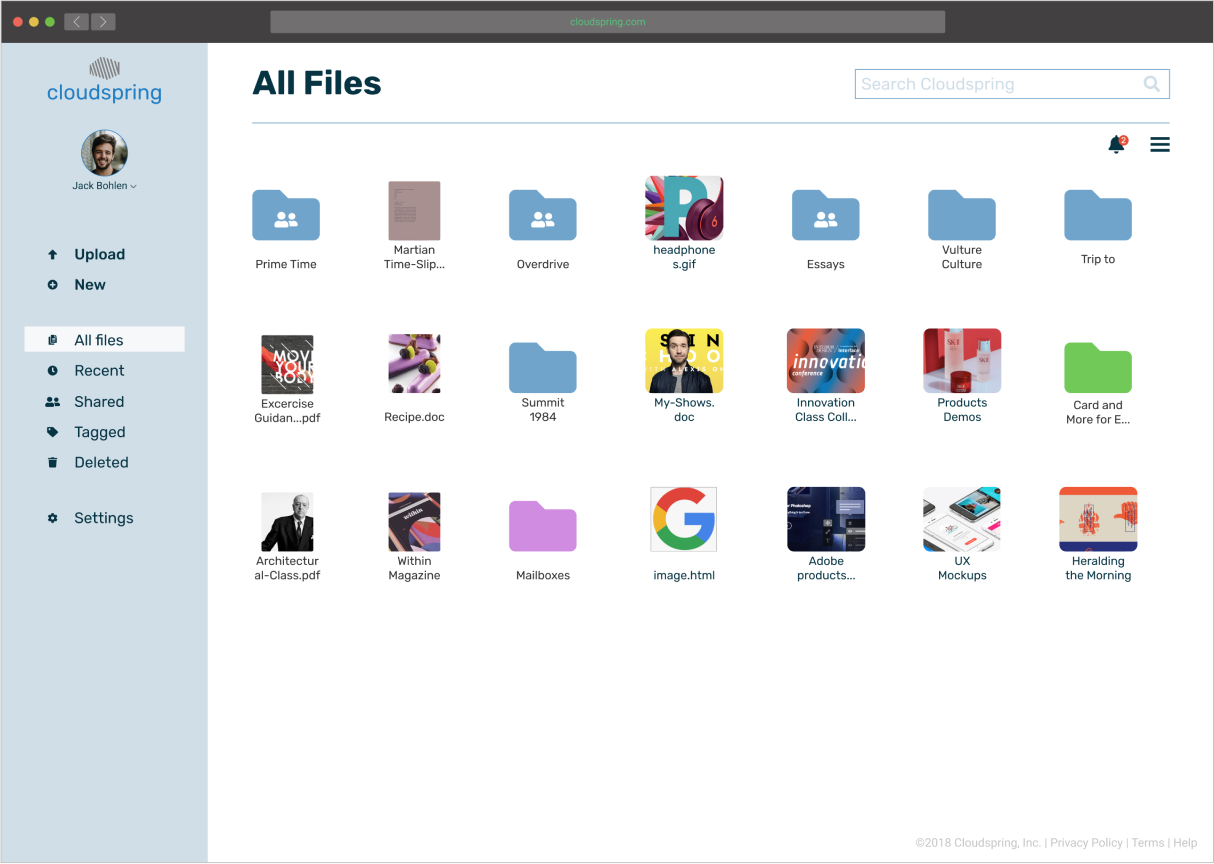
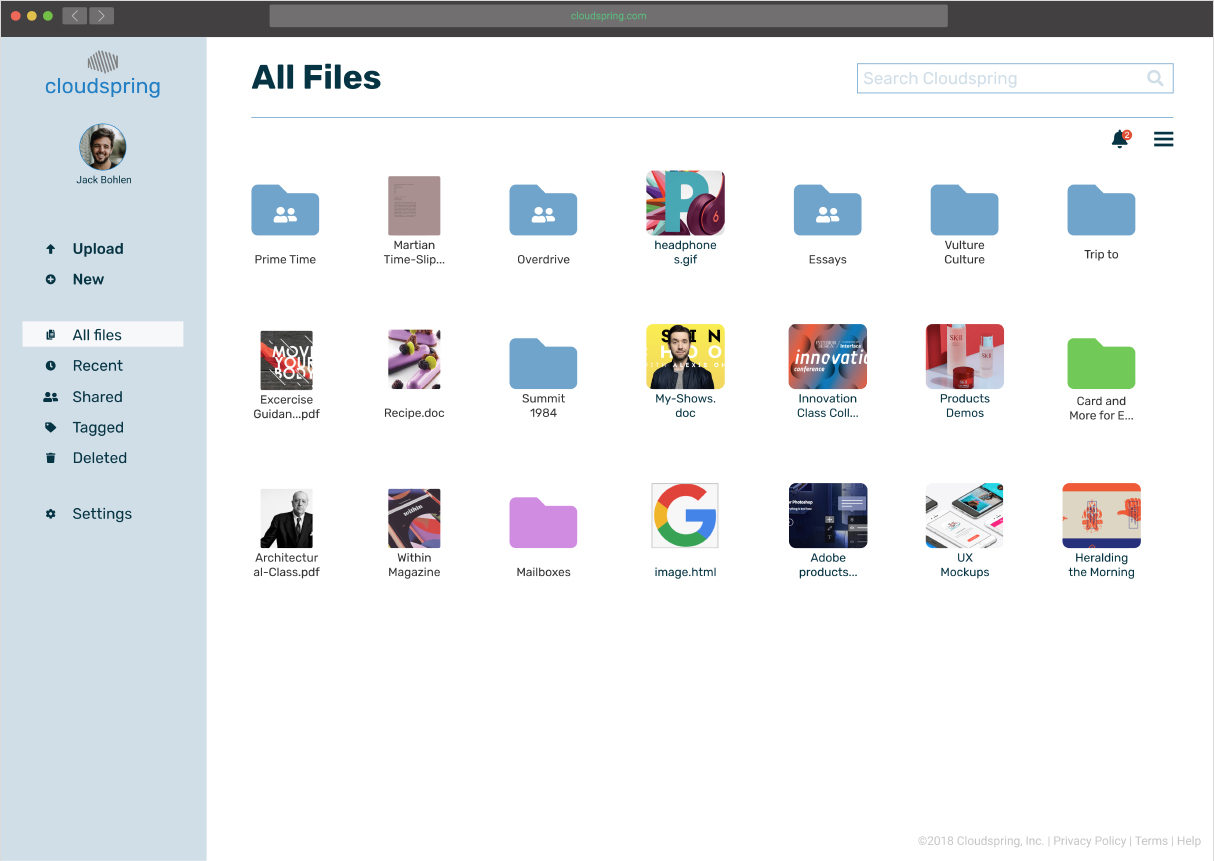
add new images and new code

diff --git a/projects/cloudspring.html b/projects/cloudspring.html
@@ -497,11 +497,11 @@
           <p>Fig. Sketches of sign in process</p>
         </div> -->
         <div class="sketch-3">
-          <img src="../media/images/digital-wireframe-1.jpg" alt="Wireframe showing the process of uploading an image">
+          <img src="../media/images/wireframe-1.jpg" alt="Wireframe showing the process of uploading an image">
           <p id="fig">Fig. Wireframe of the process to upload an image</p>
         </div>
         <div class="sketch-4">
-          <img src="../media/images/digital-wireframe-2.jpg" alt="Wireframe showing sign up page">
+          <img src="../media/images/wireframe-2.jpg" alt="Wireframe showing sign up page">
           <p id="fig">Fig. Wireframe of the sign up page</p>
         </div>
       </div>
@@ -526,48 +526,42 @@
         <div class="wireframes-images">
           <h4>Where to retrive the code?</h4>
           <div class="sketch-3">
-            <img src="../media/images/digital-wireframe-1.jpg" alt="Wireframe showing the process of uploading an image">
+            <img src="../media/images/wireframe-change-1a.jpg" alt="Wireframe showing the process of uploading an image">
             <p>Users where confuse on where they were suppose to retrieve this code. Was it on the email? Some of them asked me if they were suppose to receive the code on their phones as a text message.</p>
           </div>
           <div class="sketch-4">
-            <img src="../media/images/digital-wireframe-2.jpg" alt="Wireframe showing sign up page">
-            <p>To resolve the issue, I added the option of receeiving the code on their email or as a text message.</p>
+            <img src="../media/images/wireframe-change-1b.jpg" alt="Wireframe showing sign up page">
+            <p>To resolve the issue, I added the option to receive the code on their email or as a text message.</p>
           </div>
           <h4>Icons on the sidebar</h4>
           <div class="sketch-3">
-            <img src="../media/images/digital-wireframe-1.jpg" alt="Wireframe showing the process of uploading an image">
+            <img src="../media/images/wireframe-change-2a.jpg" alt="Wireframe showing the process of uploading an image">
             <p>While I was watching the user interacting with the sidebar, I noticed that they were slowing down a bit to read the buttons. I knew righ away that one option to aid the user was to add icons next to the buttons. I was opposed to doing that because I wanted to keep the UI as clean as possible.</p>
           </div>
           <div class="sketch-4">
-            <img src="../media/images/digital-wireframe-2.jpg" alt="Wireframe showing sign up page">
+            <img src="../media/images/wireframe-change-2b.jpg" alt="Wireframe showing sign up page">
             <p>To fix this issue I had to perform a preference test (As will be shown later). The result was that people overwhelmed prefered icons. This was an opportunity for me to listen to the users.</p>
-          </div>
-          <h4>"Tour the Interface"</h4>
-          <div class="sketch-3">
-
-            <img src="../media/images/digital-wireframe-1.jpg" alt="Wireframe showing the process of uploading an image">
-            <p>Upon arriving to “home” after signing up, some user where confuse about the UI.</p>
-          </div>
-          <div class="sketch-4">
-            <img src="../media/images/digital-wireframe-2.jpg" alt="Wireframe showing sign up page">
-            <p>I added a message for the empty state as a starting point for the new user so they can get familiar with the app.</p>
           </div>
           <h4>Label "Tags" was confusing</h4>
           <div class="sketch-3">
-            <img src="../media/images/digital-wireframe-1.jpg" alt="Wireframe showing the process of uploading an image">
+
+            <img src="../media/images/wireframe-change-3a.jpg" alt="Wireframe showing the process of uploading an image">
             <p>Some user did not know what “Tags” mean. They where looking everywhere on the interface to complete the task of tagging an item.</p>
           </div>
           <div class="sketch-4">
-            <img src="../media/images/digital-wireframe-2.jpg" alt="Wireframe showing sign up page">
+            <img src="../media/images/wireframe-change-3b.jpg" alt="Wireframe showing sign up page">
             <p>I had to apply restrain to me in the sense that I wanted to help them out, but I knew what was the problem right away when an user expressed that “tagged” sounds more like a buttom that they would click.</p>
           </div>
+
+
+
           <h4>"X" to Close Modals</h4>
           <div class="sketch-3">
-            <img src="../media/images/digital-wireframe-1.jpg" alt="Wireframe showing the process of uploading an image">
+            <img src="../media/images/wireframe-change-4a.jpg" alt="Wireframe showing the process of uploading an image">
             <p>For my surprise, user could not close the modals, because for an oversight I did not add a way fo the user to close the modals. I assumed that they would complete the action.</p>
           </div>
           <div class="sketch-4">
-            <img src="../media/images/digital-wireframe-2.jpg" alt="Wireframe showing sign up page">
+            <img src="../media/images/wireframe-change-4b.jpg" alt="Wireframe showing sign up page">
             <p>When I saw them stuck on that state, I knew that for the next iteration I had to add an “X” to indicate that the modal can be closed without completing the action. Later on I opted for a “Cancel” buttom to accomplish the same action.</p>
           </div>
         </div>
